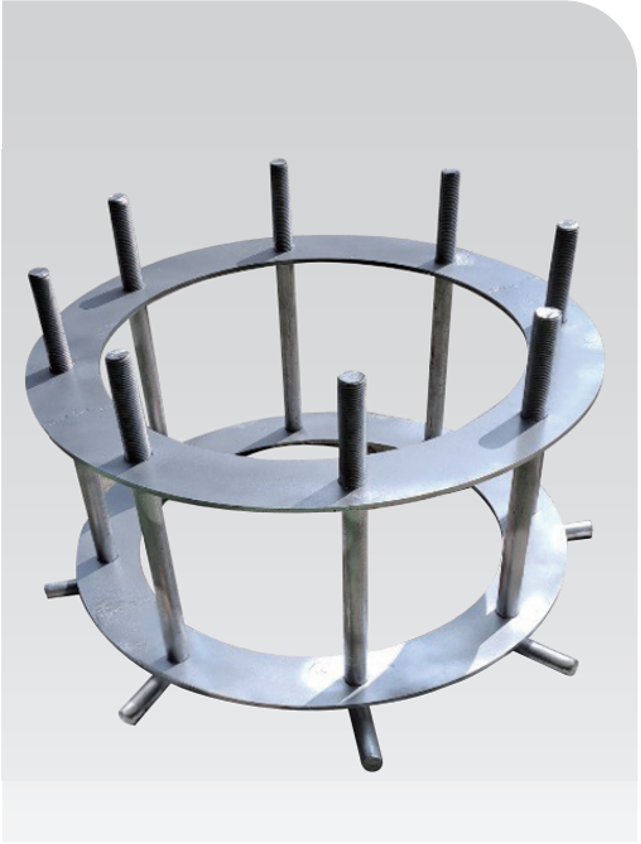
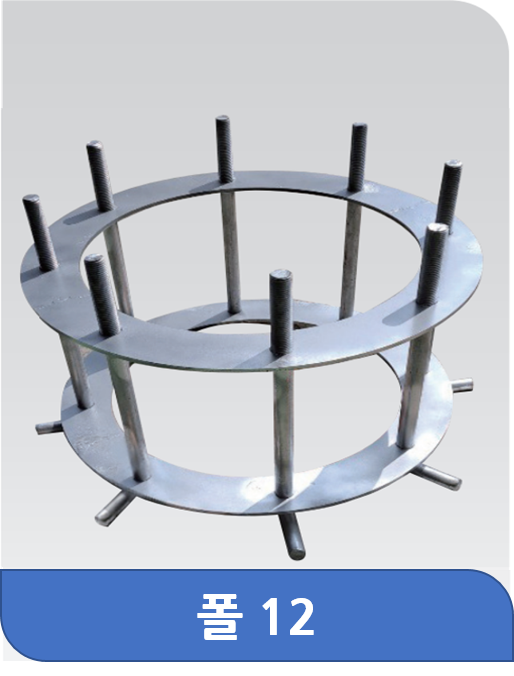
제품소개 사진 변경(폴)

diff --git a/BKTech/src/main/resources/templates/portfolio.html b/BKTech/src/main/resources/templates/portfolio.html
@@ -234,8 +234,7 @@
             <div class="portfolio-item">
               <img src="assets/img/pole/pole1.png" class="img-fluid" alt="">
               <div class="portfolio-info">
-                <h3><a href="assets/img/pole/pole1.png" data-gall="portfolioGallery" class="venobox" title="Pole 1">폴 1</a></h3>
-                <a href="assets/img/pole/pole1.png" data-gall="portfolioGallery" class="venobox" title="Pole 1"><i class="icofont-plus"></i></a>
+                <h3><a href="assets/img/pole/pole1-1.png" data-gall="portfolioGallery" class="venobox" title="Pole 1">폴 1<br><i class="icofont-plus"></i></a></h3>
               </div>
             </div>
           </div>
@@ -244,8 +243,7 @@
             <div class="portfolio-item">
               <img src="assets/img/pole/pole2.png" class="img-fluid" alt="">
               <div class="portfolio-info">
-                <h3><a href="assets/img/pole/pole2.png" data-gall="portfolioGallery" class="venobox" title="Pole 2">폴 2</a></h3>
-                <a href="assets/img/pole/pole2.png" data-gall="portfolioGallery" class="venobox" title="Pole 2"><i class="icofont-plus"></i></a>
+                <h3><a href="assets/img/pole/pole2-1.png" data-gall="portfolioGallery" class="venobox" title="Pole 2">폴 2<br><i class="icofont-plus"></i></a></h3>
               </div>
             </div>
           </div>
@@ -254,8 +252,7 @@
             <div class="portfolio-item">
               <img src="assets/img/pole/pole3.png" class="img-fluid" alt="">
               <div class="portfolio-info">
-                <h3><a href="assets/img/pole/pole3.png" data-gall="portfolioGallery" class="venobox" title="Pole 3">폴 3</a></h3>
-                <a href="assets/img/pole/pole3.png" data-gall="portfolioGallery" class="venobox" title="Pole 3"><i class="icofont-plus"></i></a>
+                <h3><a href="assets/img/pole/pole3-1.png" data-gall="portfolioGallery" class="venobox" title="Pole 3">폴 3<br><i class="icofont-plus"></i></a></h3>
               </div>
             </div>
           </div>
@@ -264,8 +261,7 @@
             <div class="portfolio-item">
               <img src="assets/img/pole/pole4.png" class="img-fluid" alt="">
               <div class="portfolio-info">
-                <h3><a href="assets/img/pole/pole4.png" data-gall="portfolioGallery" class="venobox" title="Pole 4">폴 4</a></h3>
-                <a href="assets/img/pole/pole4.png" data-gall="portfolioGallery" class="venobox" title="Pole 4"><i class="icofont-plus"></i></a>
+                <h3><a href="assets/img/pole/pole4-1.png" data-gall="portfolioGallery" class="venobox" title="Pole 4">폴 4<br><i class="icofont-plus"></i></a></h3>
               </div>
             </div>
           </div>
@@ -274,8 +270,7 @@
             <div class="portfolio-item">
               <img src="assets/img/pole/pole5.png" class="img-fluid" alt="">
               <div class="portfolio-info">
-                <h3><a href="assets/img/pole/pole5.png" data-gall="portfolioGallery" class="venobox" title="Pole 5">폴 5</a></h3>
-                <a href="assets/img/pole/pole5.png" data-gall="portfolioGallery" class="venobox" title="Pole 5"><i class="icofont-plus"></i></a>
+                <h3><a href="assets/img/pole/pole5-1.png" data-gall="portfolioGallery" class="venobox" title="Pole 5">폴 5<br><i class="icofont-plus"></i></a></h3>
               </div>
             </div>
           </div>
@@ -284,8 +279,7 @@
             <div class="portfolio-item">
               <img src="assets/img/pole/pole6.png" class="img-fluid" alt="">
               <div class="portfolio-info">
-                <h3><a href="assets/img/pole/pole6.png" data-gall="portfolioGallery" class="venobox" title="Pole 6">폴 6</a></h3>
-                <a href="assets/img/pole/pole6.png" data-gall="portfolioGallery" class="venobox" title="Pole 6"><i class="icofont-plus"></i></a>
+                <h3><a href="assets/img/pole/pole6-1.png" data-gall="portfolioGallery" class="venobox" title="Pole 6">폴 6<br><i class="icofont-plus"></i></a></h3>
               </div>
             </div>
           </div>
@@ -294,8 +288,7 @@
             <div class="portfolio-item">
               <img src="assets/img/pole/pole7.png" class="img-fluid" alt="">
               <div class="portfolio-info">
-                <h3><a href="assets/img/pole/pole7.png" data-gall="portfolioGallery" class="venobox" title="Pole 7">폴 7</a></h3>
-                <a href="assets/img/pole/pole7.png" data-gall="portfolioGallery" class="venobox" title="Pole 7"><i class="icofont-plus"></i></a>
+                <h3><a href="assets/img/pole/pole7-1.png" data-gall="portfolioGallery" class="venobox" title="Pole 7">폴 7<br><i class="icofont-plus"></i></a></h3>
               </div>
             </div>
           </div>
@@ -304,8 +297,7 @@
             <div class="portfolio-item">
               <img src="assets/img/pole/pole8.png" class="img-fluid" alt="">
               <div class="portfolio-info">
-                <h3><a href="assets/img/pole/pole8.png" data-gall="portfolioGallery" class="venobox" title="Pole 8">폴 8</a></h3>
-                <a href="assets/img/pole/pole8.png" data-gall="portfolioGallery" class="venobox" title="Pole 8"><i class="icofont-plus"></i></a>
+                <h3><a href="assets/img/pole/pole8-1.png" data-gall="portfolioGallery" class="venobox" title="Pole 8">폴 8<br><i class="icofont-plus"></i></a></h3>
               </div>
             </div>
           </div>
@@ -314,8 +306,7 @@
             <div class="portfolio-item">
               <img src="assets/img/pole/pole9.png" class="img-fluid" alt="">
               <div class="portfolio-info">
-                <h3><a href="assets/img/pole/pole9.png" data-gall="portfolioGallery" class="venobox" title="Pole 9">폴 9</a></h3>
-                <a href="assets/img/pole/pole9.png" data-gall="portfolioGallery" class="venobox" title="Pole 9"><i class="icofont-plus"></i></a>
+                <h3><a href="assets/img/pole/pole9-1.png" data-gall="portfolioGallery" class="venobox" title="Pole 9">폴 9<br><i class="icofont-plus"></i></a></h3>
               </div>
             </div>
           </div>
@@ -324,8 +315,7 @@
             <div class="portfolio-item">
               <img src="assets/img/pole/pole10.png" class="img-fluid" alt="">
               <div class="portfolio-info">
-                <h3><a href="assets/img/pole/pole10.png" data-gall="portfolioGallery" class="venobox" title="Pole 10">폴 10</a></h3>
-                <a href="assets/img/pole/pole10.png" data-gall="portfolioGallery" class="venobox" title="Pole 10"><i class="icofont-plus"></i></a>
+                <h3><a href="assets/img/pole/pole10-1.png" data-gall="portfolioGallery" class="venobox" title="Pole 10">폴 10<br><i class="icofont-plus"></i></a></h3>
               </div>
             </div>
           </div>
@@ -334,8 +324,7 @@
             <div class="portfolio-item">
               <img src="assets/img/pole/pole11.png" class="img-fluid" alt="">
               <div class="portfolio-info">
-                <h3><a href="assets/img/pole/pole11.png" data-gall="portfolioGallery" class="venobox" title="Pole 11">폴 11</a></h3>
-                <a href="assets/img/pole/pole11.png" data-gall="portfolioGallery" class="venobox" title="Pole 11"><i class="icofont-plus"></i></a>
+                <h3><a href="assets/img/pole/pole11-1.png" data-gall="portfolioGallery" class="venobox" title="Pole 11">폴 11<br><i class="icofont-plus"></i></a></h3>
               </div>
             </div>
           </div>
@@ -344,8 +333,7 @@
             <div class="portfolio-item">
               <img src="assets/img/pole/pole12.png" class="img-fluid" alt="">
               <div class="portfolio-info">
-                <h3><a href="assets/img/pole/pole12.png" data-gall="portfolioGallery" class="venobox" title="Pole 12">폴 12</a></h3>
-                <a href="assets/img/pole/pole12.png" data-gall="portfolioGallery" class="venobox" title="Pole 12"><i class="icofont-plus"></i></a>
+                <h3><a href="assets/img/pole/pole12-1.png" data-gall="portfolioGallery" class="venobox" title="Pole 12">폴 12<br><i class="icofont-plus"></i></a></h3>
               </div>
             </div>
           </div>
@@ -354,8 +342,7 @@
             <div class="portfolio-item">
               <img src="assets/img/pole/pole13.png" class="img-fluid" alt="">
               <div class="portfolio-info">
-                <h3><a href="assets/img/pole/pole13.png" data-gall="portfolioGallery" class="venobox" title="Pole 13">폴 13</a></h3>
-                <a href="assets/img/pole/pole13.png" data-gall="portfolioGallery" class="venobox" title="Pole 13"><i class="icofont-plus"></i></a>
+                <h3><a href="assets/img/pole/pole13-1.png" data-gall="portfolioGallery" class="venobox" title="Pole 13">폴 13<br><i class="icofont-plus"></i></a></h3>
               </div>
             </div>
           </div>
